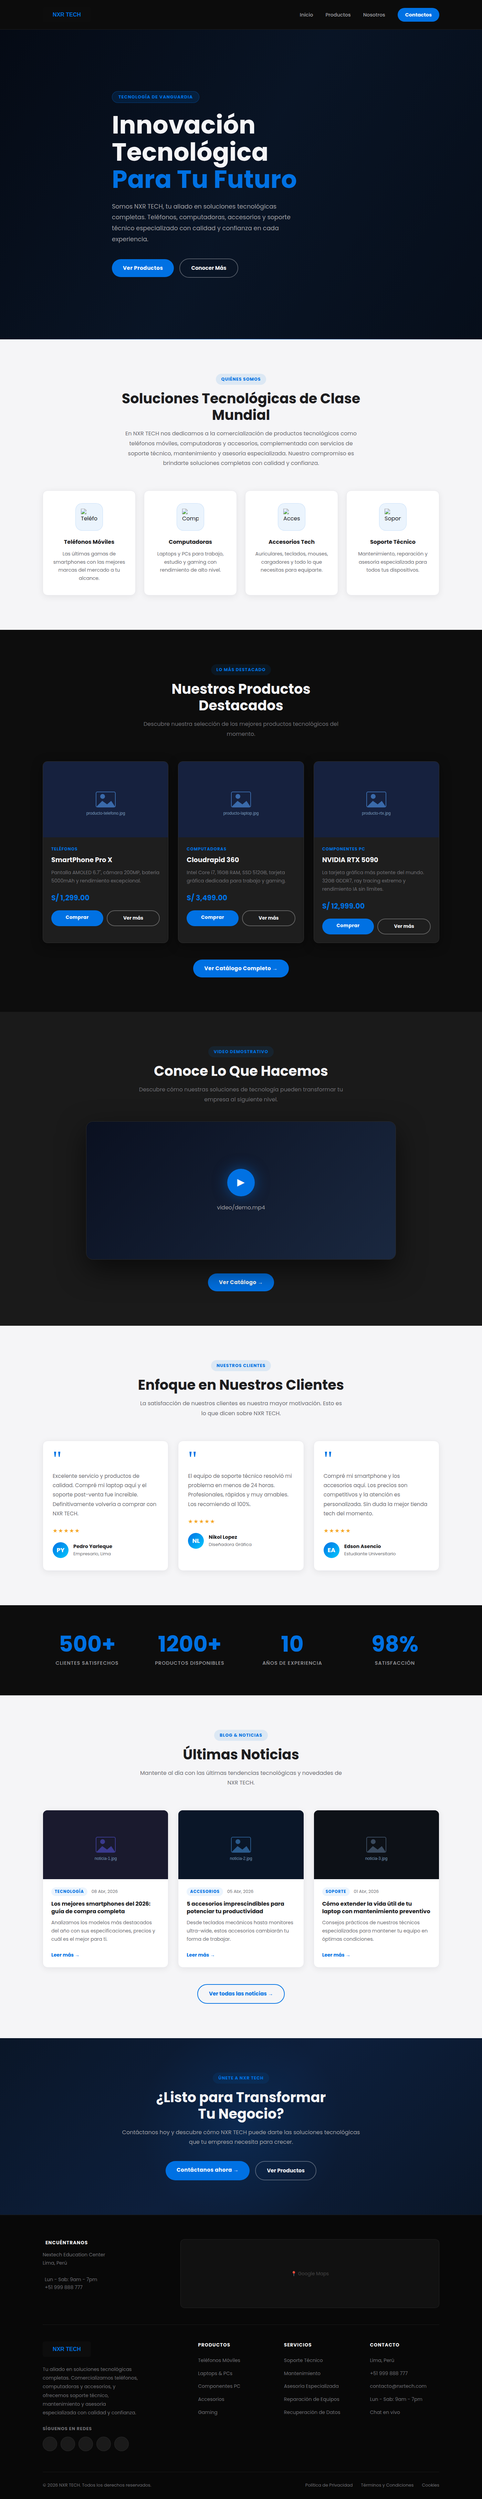
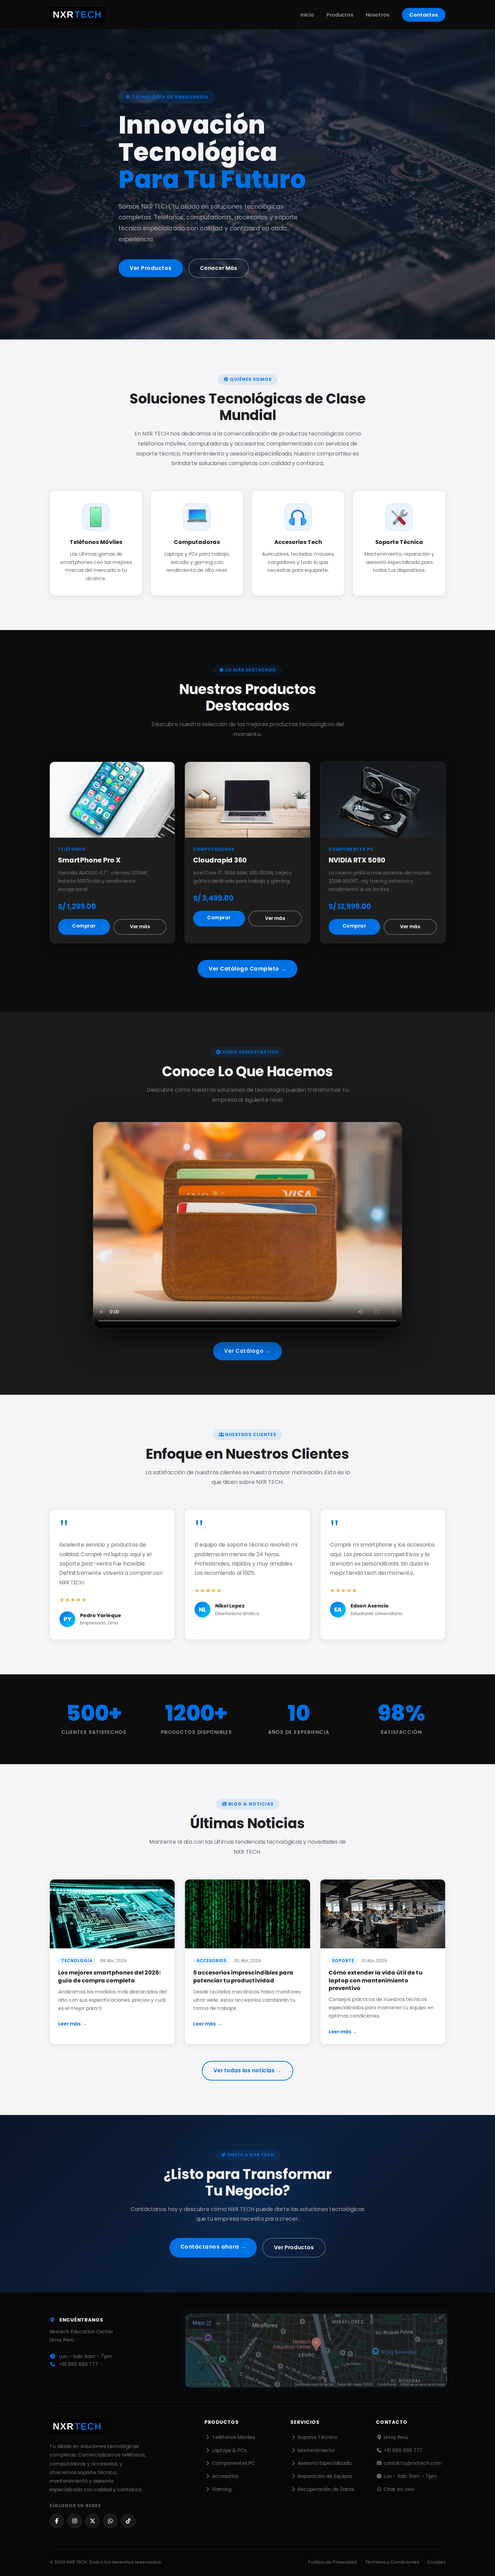
refactor: Mapear imagenes de img de la seccion soluciones

Changed region(s): [[0.0, 0.0, 1.0, 0.996], [0.1229, 0.0623, 0.1536, 0.0934]]

diff --git a/css-team/maykol-calle.css b/css-team/maykol-calle.css
@@ -58,19 +58,19 @@
                 con la mejor calidad y respaldo técnico."
 
    Card 1 — Teléfonos Móviles
-     Ícono: https://img.icons8.com/fluency/96/smartphone.png
+     Ícono: img/icon-smartphone.png
      Texto: Amplio catálogo de smartphones de las mejores marcas.
 
    Card 2 — Laptops & Computadoras
-     Ícono: https://img.icons8.com/fluency/96/laptop.png
+     Ícono: img/icon-laptop.png
      Texto: Equipos para trabajo, estudio y gaming de alto rendimiento.
 
    Card 3 — Accesorios Tecnológicos
-     Ícono: https://img.icons8.com/fluency/96/headphones.png
+     Ícono: img/icon-headphones.png
      Texto: Periféricos, audio, cargadores y todo para tu equipo.
 
    Card 4 — Soporte Técnico
-     Ícono: https://img.icons8.com/fluency/96/maintenance.png
+     Ícono: img/icon-maintenance.png
      Texto: Mantenimiento, reparación y asesoría especializada.
 
    ============================================================
